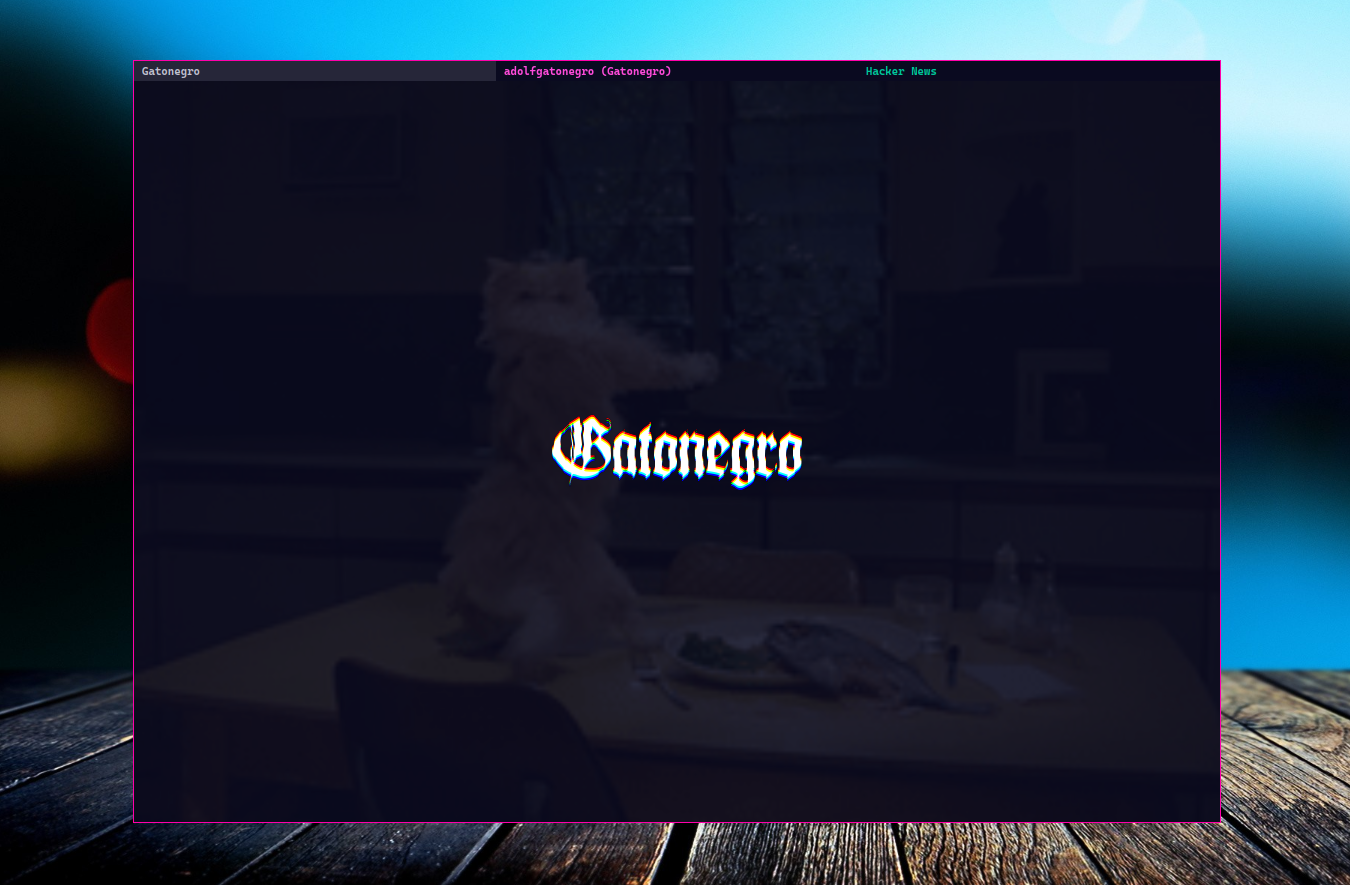
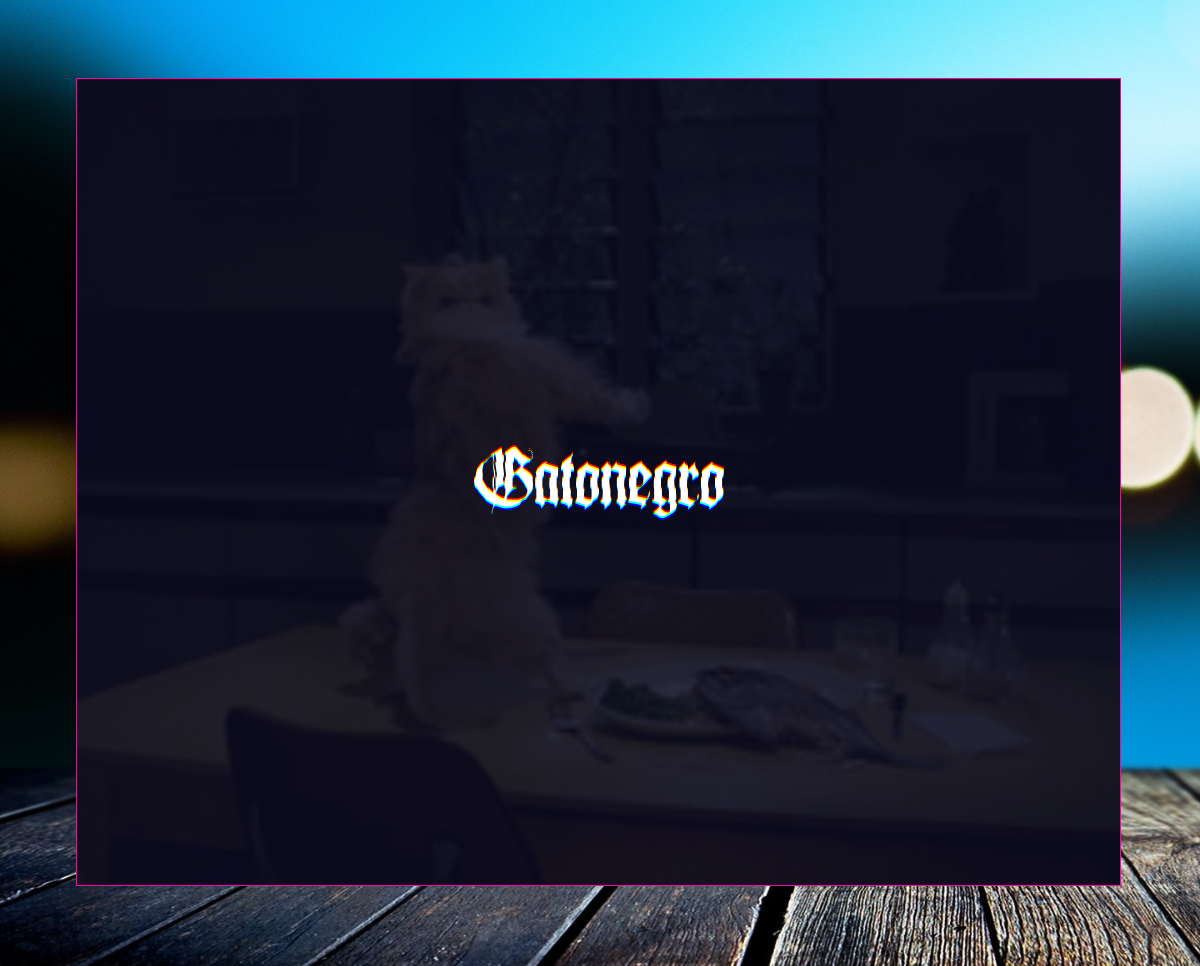
add changes to private windows

Changed region(s): [[0.0, 0.0, 1.0, 1.0], [0.0, 0.2136, 0.1233, 0.6102], [0.37, 0.4576, 0.6167, 0.5492]]

diff --git a/userChrome.css b/userChrome.css
@@ -3,6 +3,8 @@
 	--tab-inactive-bg-color: #0a0a20;		/* background color of an inactive tab */
 	--tab-active-fg-fallback-color: #c1c1d1;	/* color of text in an active tab without a container */
 	--tab-inactive-fg-fallback-color: #6c6c93;	/* color of text in an inactive tab without a container */
+	--tab-private-icon: ""; /* icon to be displayed to the left of the tab titles in private windows */
+	--tab-private-icon-colour: #00ffe0;	/* colour of the private icon */
 
 	/* try increasing if you encounter problems */
 	--urlbar-height-setting: 24px;
@@ -130,7 +132,7 @@ tab:not([selected="true"]) {
 
 tab {
 	font-family: monospace;
-	font-weight: bold;
+	font-weight: normal;
 	border: none !important;
 }
 
@@ -225,6 +227,12 @@ tab {
 #tabs-newtab-button {
      display:none !important;
 }
+
+/* keep private window tab bar and indicator visible */ 
+#main-window[privatebrowsingmode] #tabbrowser-tabs .tabbrowser-tab{display:block !important;}
+#main-window[privatebrowsingmode] #tabbrowser-tabs .tabbrowser-tab .tab-content:before{content: var(--tab-private-icon); margin-right: 1em; color: var(--tab-private-icon-colour)}
+#private-browsing-indicator-with-label > label { display: none; }
+
 /* show on hover */
 /* #titlebar:hover ~ .browser-toolbar,
 #nav-bar:hover,

diff --git a/README.md b/README.md
@@ -1,17 +1,23 @@
-# Gatonegro's customised minimal userChrome.css
+# Gatonegro's Minimal Firefox
 
 ![](./screenshots/default.png)
 
-Tab bar hidden when only a single tab is open:
+This configuration hides the tab bar when only one tab is open, removing every
+trace of the Firefox UI. With two or more tabs open, the qutebrowser-inspired
+tab bar becomes visible.
 
-![](./screenshots/singletab.png)
+![](./screenshots/multitab.png)
+
+In private windows the tab bar will remain visible, and an eye   icon will be
+drawn next to the tab name, to make it easier to distinguish between regular
+and private windows.
+
+![](./screenshots/private.png)
 
 Color of text in a tab is determined by its container. If a tab has no
-container, fallback colors are used. You can change the basic colorscheme by
-adjusting values of variables defined at the top of `userChrome.css`.
-
-If only one tab is open, the tab bar will collapse. The minimal,
-qutebrowser-inspired tab bar becomes visible when at least two tabs exist.
+container, fallback colors are used. The private tab icon, its colour, and the
+fallback colourscheme for non-container tabs can all be adjusted via the
+variables defined at the top of `userChrome.css`.
 
 ## How to use
 
@@ -63,4 +69,5 @@ uncomment the code there. Otherwise you may only toggle the navbar by pressing
 
 ## Credit
 
-This `userChrome.css` is a fork of [Dook97's firefox-qutebrowser-userchrome](https://github.com/Dook97/firefox-qutebrowser-userchrome), which is in turn a (soft) fork of [aadilayub's firefox-i3wm-theme](https://github.com/aadilayub/firefox-i3wm-theme).
+This `userChrome.css` is a fork of [Dook97's userChrome.css](https://github.com/Dook97/firefox-qutebrowser-userchrome),
+which is in turn a (soft) fork of [aadilayub's theme](https://github.com/aadilayub/firefox-i3wm-theme).
